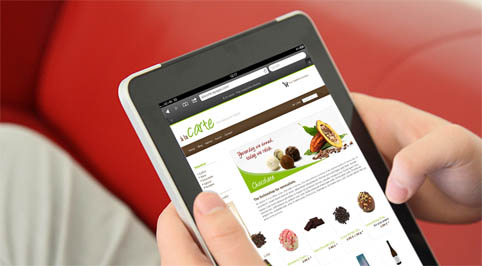
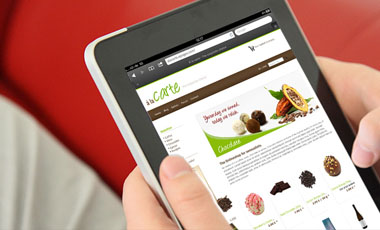
блок с иконками, фиксы, разные мелочи

diff --git a/css/style.min.css b/css/style.min.css
@@ -1,1 +1,1 @@
-.button{display:inline-block;padding:5px 25px;vertical-align:middle;box-sizing:border-box;font-size:13px;line-height:22px;font-family:"Tahoma",serif;text-align:center;color:#fff;background:#da4137;border-radius:3px;-webkit-transition:all .07s linear;transition:all .07s linear;cursor:pointer}.button:hover{background-color:#8d8d8d;color:#fff}.button:active{color:rgba(255,255,255,.3)}.button--action{border:0;color:#fff}.button--action,.button--action:hover{background-color:#f16e65}body{font-family:"Times New Roman",serif;font-size:14px;line-height:20px;color:#8d8d8d}*,::after,::before{box-sizing:inherit}img{max-width:100%;height:auto}a{text-decoration:none;color:#000}body,h2{margin:0}.visually-hidden{position:absolute;width:1px;height:1px;margin:-1px;border:0;padding:0;white-space:nowrap;-webkit-clip-path:inset(100%);clip-path:inset(100%);clip:rect(0 0 0 0);overflow:hidden}.site-list{list-style:none;padding:0;margin:0;display:-webkit-box;display:flex;flex-wrap:wrap;-webkit-box-pack:justify;justify-content:space-between;-webkit-box-align:stretch;align-items:stretch;width:100%}.site-list__item{padding:35px 0;font-weight:700;color:#000}.site-list__item--logo{margin:0 350px 0 0;padding-top:22px;padding-bottom:22px;text-align:center}.site-list__link{position:relative;display:block;font-size:16px;line-height:19px;font-family:"Tahoma",serif;font-weight:700;color:#000}.site-list__link:focus,.site-list__link:hover{color:rgba(0,0,0,.6)}.site-list__link:active{opacity:.3}.page-header,.page-main{width:850px;margin:0 auto}.section{margin-bottom:35px}.section__title{margin:0 0 10px;font-size:18px;line-height:19px;font-family:"Tahoma",serif;font-weight:700;color:#000}.section__text{font-style:italic}.preview{padding:20px 30px;margin-bottom:25px;display:-webkit-box;display:flex;-webkit-box-pack:justify;justify-content:space-between;background:#f0f0f0}.preview__intro{font-size:21px;line-height:28px;font-family:"Tahoma",serif;font-weight:700;color:#000}.preview__left{width:48%;display:-webkit-box;display:flex;-webkit-box-align:stretch;align-items:stretch}.preview__left img{width:100%}.preview__right{width:48%}.advantages-list{list-style:none;padding:0;margin:0;display:-webkit-box;display:flex;flex-wrap:wrap;width:100%}.advantages-list__item{font-size:14px;line-height:18px;font-style:italic;color:#000}
+.button{display:inline-block;padding:5px 26px;vertical-align:middle;box-sizing:border-box;font-size:13px;line-height:22px;font-family:"Tahoma",serif;text-align:center;color:#fff;background-color:#da4137;background-image:-webkit-gradient(linear,left top,left bottom,from(#da4137),to(rgba(0,0,0,.3)));background-image:linear-gradient(#da4137,rgba(0,0,0,.3));border-radius:3px;-webkit-transition:all .07s linear;transition:all .07s linear;cursor:pointer}.button:hover{background-color:#8d8d8d}.button:active{color:rgba(255,255,255,.3)}.button--action{border:0;color:#fff}.button--action,.button--action:hover{background-color:#f16e65}body{font-family:"Times New Roman",serif;font-size:14px;line-height:20px;color:#8d8d8d}*,::after,::before{box-sizing:inherit}img{max-width:100%;height:auto}a{text-decoration:none;color:#000}body,h2{margin:0}.visually-hidden{position:absolute;width:1px;height:1px;margin:-1px;border:0;padding:0;white-space:nowrap;-webkit-clip-path:inset(100%);clip-path:inset(100%);clip:rect(0 0 0 0);overflow:hidden}.site-list{list-style:none;padding:0;margin:0;display:-webkit-box;display:flex;flex-wrap:wrap;-webkit-box-pack:justify;justify-content:space-between;-webkit-box-align:stretch;align-items:stretch;width:100%}.site-list__item{padding:35px 0;font-weight:700;color:#000}.site-list__item--logo{margin:0 350px 0 0;padding-top:22px;padding-bottom:22px;text-align:center}.site-list__link{position:relative;display:block;font-size:16px;line-height:19px;font-family:"Tahoma",serif;font-weight:700;color:#000}.site-list__link:focus,.site-list__link:hover{color:rgba(0,0,0,.6)}.site-list__link:active{opacity:.3}.page-header,.page-main{width:850px;margin:0 auto}.section{margin-bottom:35px}.section__title{margin:0 0 10px;font-size:18px;line-height:19px;font-family:"Tahoma",serif;font-weight:700;color:#000}.section__text{margin:0 0 25px}.preview{padding:20px 30px;margin-bottom:25px;display:-webkit-box;display:flex;-webkit-box-pack:justify;justify-content:space-between;background:#f0f0f0}.preview__intro{font-size:21px;line-height:28px;font-family:"Tahoma",serif;font-weight:700;color:#000}.preview__left{width:48%;display:-webkit-box;display:flex;-webkit-box-align:stretch;align-items:stretch}.preview__left img{width:100%;box-shadow:0 0 5px 0 rgba(0,0,0,.25)}.preview__right{width:48%}.advantages-list{list-style:none;margin:0;padding:0 0 10px;display:-webkit-box;display:flex;flex-wrap:wrap;width:100%;justify-content:space-around;font-size:14px;line-height:18px;font-style:italic;color:#000}.advantages-list__item{position:relative}.advantages-list__item--cart::before,.advantages-list__item--visitor::before{content:"";position:absolute;top:-3px;left:-55px;width:44px;height:38px;background-image:url(../img/icon-visitor.png);background-repeat:no-repeat}.advantages-list__item--cart::before{top:-7px;left:-60px;width:45px;height:44px;background-image:url(../img/icon-cart.png)}.advantages-list__item--briefcase::before,.advantages-list__item--calculator::before{content:"";position:absolute;top:-7px;left:-55px;width:37px;height:44px;background-image:url(../img/icon-calculator.png);background-repeat:no-repeat}.advantages-list__item--briefcase::before{top:-3px;left:-60px;width:45px;height:36px;background-image:url(../img/icon-briefcase.png)}

diff --git a/css/style.css b/css/style.css
@@ -1,6 +1,6 @@
 .button {
   display: inline-block;
-  padding: 5px 25px;
+  padding: 5px 26px;
   vertical-align: middle;
   box-sizing: border-box;
   font-size: 13px;
@@ -8,14 +8,15 @@
   font-family: "Tahoma", serif;
   text-align: center;
   color: #ffffff;
-  background: #da4137;
+  background-color: #da4137;
+  background-image: -webkit-gradient(linear, left top, left bottom, from(#da4137), to(rgba(0, 0, 0, 0.3)));
+  background-image: linear-gradient(#da4137, rgba(0, 0, 0, 0.3));
   border-radius: 3px;
   -webkit-transition: all 0.07s linear;
   transition: all 0.07s linear;
   cursor: pointer; }
   .button:hover {
-    background-color: #8d8d8d;
-    color: #ffffff; }
+    background-color: #8d8d8d; }
   .button:active {
     color: rgba(255, 255, 255, 0.3); }
   .button--action {
@@ -119,7 +120,8 @@ h2 {
   color: #000000; }
 
 .section__text {
-  font-style: italic; }
+  margin: 0;
+  margin-bottom: 25px; }
 
 .preview {
   padding: 20px 30px;
@@ -145,7 +147,8 @@ h2 {
           align-items: stretch; }
 
 .preview__left img {
-  width: 100%; }
+  width: 100%;
+  box-shadow: 0 0 5px 0px rgba(0, 0, 0, 0.25); }
 
 .preview__right {
   width: 48%; }
@@ -154,13 +157,52 @@ h2 {
   list-style: none;
   padding: 0;
   margin: 0;
+  padding-bottom: 10px;
   display: -webkit-box;
   display: flex;
   flex-wrap: wrap;
-  width: 100%; }
-
-.advantages-list__item {
+  width: 100%;
+  justify-content: space-around;
   font-size: 14px;
   line-height: 18px;
   font-style: italic;
   color: #000000; }
+
+.advantages-list__item {
+  position: relative; }
+  .advantages-list__item--visitor::before {
+    content: "";
+    position: absolute;
+    top: -3px;
+    left: -55px;
+    width: 44px;
+    height: 38px;
+    background-image: url("../img/icon-visitor.png");
+    background-repeat: no-repeat; }
+  .advantages-list__item--cart::before {
+    content: "";
+    position: absolute;
+    top: -7px;
+    left: -60px;
+    width: 45px;
+    height: 44px;
+    background-image: url("../img/icon-cart.png");
+    background-repeat: no-repeat; }
+  .advantages-list__item--calculator::before {
+    content: "";
+    position: absolute;
+    top: -7px;
+    left: -55px;
+    width: 37px;
+    height: 44px;
+    background-image: url("../img/icon-calculator.png");
+    background-repeat: no-repeat; }
+  .advantages-list__item--briefcase::before {
+    content: "";
+    position: absolute;
+    top: -3px;
+    left: -60px;
+    width: 45px;
+    height: 36px;
+    background-image: url("../img/icon-briefcase.png");
+    background-repeat: no-repeat; }
